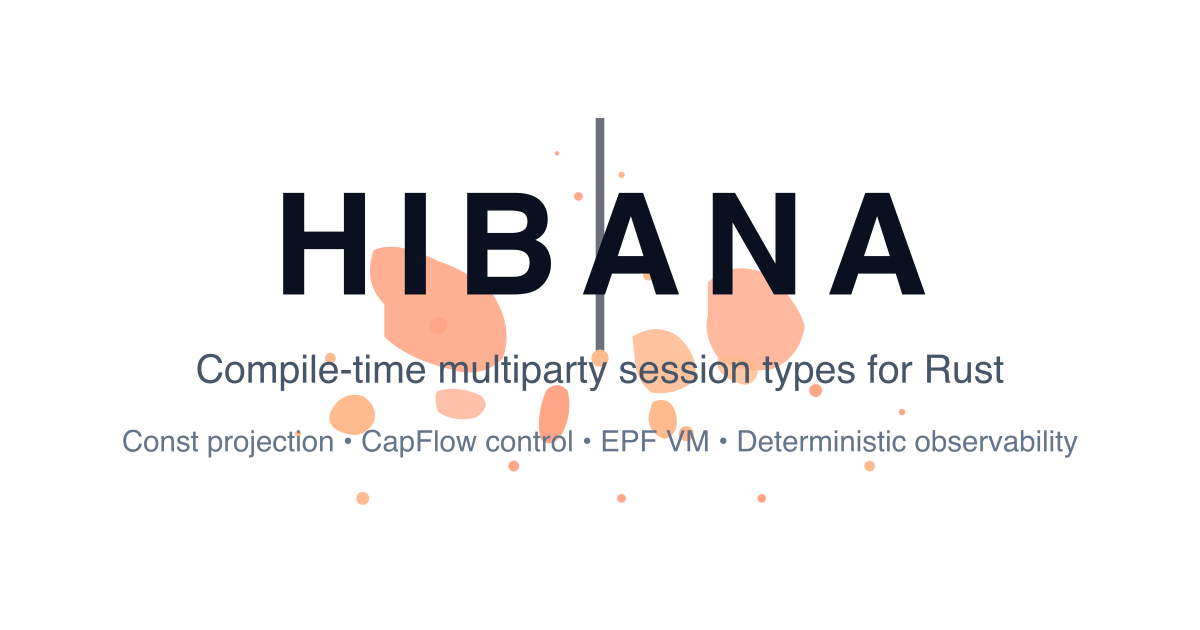
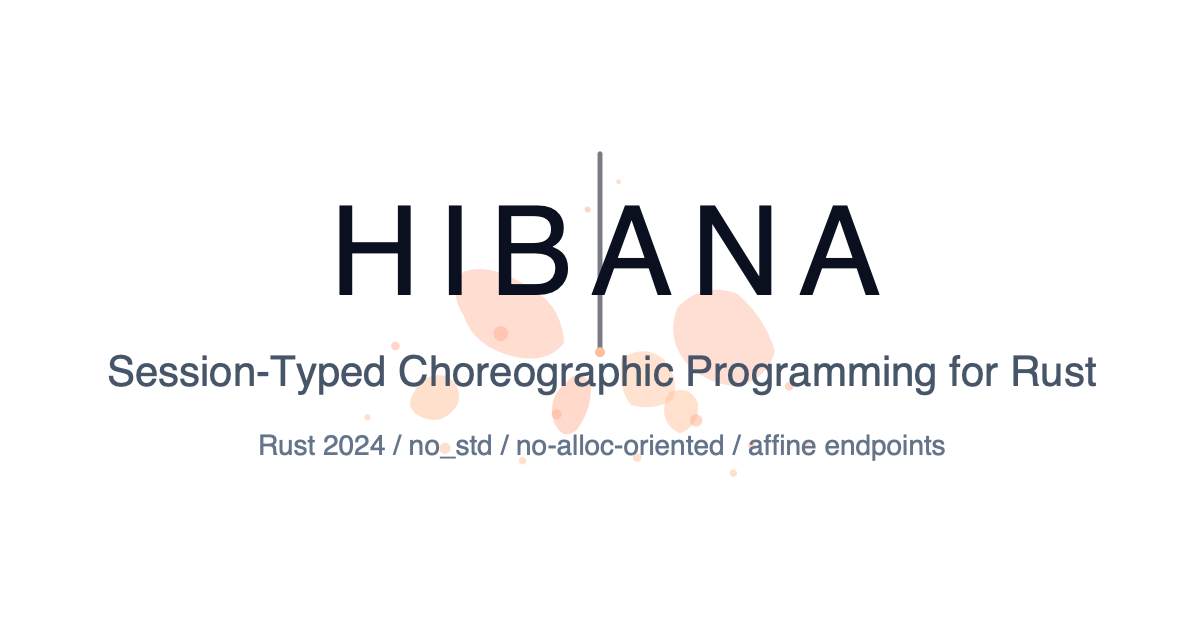
Update Hibana site for 0.9.1

Changed region(s): [[0.0925, 0.181, 0.925, 0.754], [0.2775, 0.7841, 0.3083, 0.8143]]

diff --git a/index.html b/index.html
@@ -3,21 +3,21 @@
 <head>
     <meta charset="UTF-8">
     <meta name="viewport" content="width=device-width, initial-scale=1.0">
-    <title>Hibana — Affine Multiparty Session Types for Rust</title>
-    <meta name="description" content="Const-projected Affine Multiparty Session Types for choreography-first Rust protocols. Published on crates.io as hibana 0.8.0.">
+    <title>Hibana — Session-Typed Choreographic Programming for Rust</title>
+    <meta name="description" content="Session-typed choreographic programming for no_std Rust protocols, inspired by affine MPST. Published on crates.io as hibana 0.9.1.">
     
     <!-- Open Graph / Facebook -->
     <meta property="og:type" content="website">
     <meta property="og:url" content="https://hibanaworks.dev/">
-    <meta property="og:title" content="Hibana — Affine Multiparty Session Types for Rust">
-    <meta property="og:description" content="Rust 2024 • no_std • no-alloc-oriented • affine endpoint progress">
+    <meta property="og:title" content="Hibana — Session-Typed Choreographic Programming for Rust">
+    <meta property="og:description" content="Rust 2024 • no_std • no-alloc-oriented • affine endpoints">
     <meta property="og:image" content="https://hibanaworks.dev/hibana-header.png">
     
     <!-- Twitter -->
     <meta name="twitter:card" content="summary_large_image">
     <meta name="twitter:url" content="https://hibanaworks.dev/">
-    <meta name="twitter:title" content="Hibana — Affine Multiparty Session Types for Rust">
-    <meta name="twitter:description" content="Rust 2024 • no_std • no-alloc-oriented • affine endpoint progress">
+    <meta name="twitter:title" content="Hibana — Session-Typed Choreographic Programming for Rust">
+    <meta name="twitter:description" content="Rust 2024 • no_std • no-alloc-oriented • affine endpoints">
     <meta name="twitter:image" content="https://hibanaworks.dev/hibana-header.png">
     
     <link rel="stylesheet" href="style.css">
@@ -29,16 +29,16 @@
                 <img src="hibana.svg" alt="HIBANA Mark" class="logo-mark">
                 <div class="desktop-text">
                     <h1 class="desktop-title">HIBANA</h1>
-                    <p class="desktop-subtitle">Affine Multiparty Session Types for Rust</p>
-                    <p class="desktop-features">Rust 2024 • no_std • no-alloc-oriented • affine endpoint progress</p>
+                    <p class="desktop-subtitle">Session-Typed Choreographic Programming for Rust</p>
+                    <p class="desktop-features">Rust 2024 • no_std • no-alloc-oriented • affine endpoints</p>
                 </div>
             </div>
             <div class="mobile-header">
                 <img src="hibana.svg" alt="HIBANA" class="logo logo-icon">
                 <div class="mobile-text">
                     <h1 class="mobile-title">HIBANA</h1>
-                    <p class="mobile-subtitle">Affine Multiparty Session Types for Rust</p>
-                    <p class="mobile-features">Rust 2024 • no_std • no-alloc-oriented • affine endpoint progress</p>
+                    <p class="mobile-subtitle">Session-Typed Choreographic Programming for Rust</p>
+                    <p class="mobile-features">Rust 2024 • no_std • no-alloc-oriented • affine endpoints</p>
                 </div>
             </div>
         </div>
@@ -48,17 +48,17 @@
         <section class="intro">
             <div class="container">
                 <p class="lead">
-                    Choreography-first endpoint progress for Rust.
+                    Session-typed choreography for Rust protocols.
                 </p>
                 <p>
-                    Hibana lets a protocol crate describe communication once as a global choreography,
-                    project each participant into a compact resident descriptor, attach transport, storage,
-                    and resolver policy through <code>hibana::integration</code>, and hand application
-                    code a small affine <code>Endpoint</code>. Applications stay on
-                    <code>hibana::g</code> and <code>Endpoint</code>; protocol crates use
-                    <code>hibana::integration</code> to project, attach, and bind.
+                    Hibana is a Rust 2024, <code>#![no_std]</code>, no-alloc-oriented
+                    runtime for session-typed choreographic programming, inspired by affine
+                    multiparty session types. A protocol crate describes communication once
+                    as a global choreography, projects each participant into a compact local
+                    program, attaches transport and storage through <code>hibana::runtime</code>,
+                    and hands application code a small affine <code>Endpoint</code>.
                 </p>
-                <p class="repo-note">Status: <code>hibana 0.8.0</code> is published on crates.io. The core crate is ready for early protocol integration.</p>
+                <p class="repo-note">Status: <code>hibana 0.9.1</code> is published on crates.io.</p>
             </div>
         </section>
 
@@ -68,13 +68,13 @@
 
 <span class="hl-comment">// 1. Write one global choreography.</span>
 <span class="hl-keyword">let</span> <span class="hl-variable">app</span> <span class="hl-operator">=</span> <span class="hl-fn">g::seq</span>(
-    <span class="hl-fn">g::send</span><span class="hl-operator">::&lt;</span><span class="hl-number">0</span><span class="hl-operator">,</span> <span class="hl-number">1</span><span class="hl-operator">,</span> <span class="hl-type">g::Msg</span><span class="hl-operator">&lt;</span><span class="hl-number">1</span><span class="hl-operator">,</span> <span class="hl-type">u32</span><span class="hl-operator">&gt;,</span> <span class="hl-number">0</span><span class="hl-operator">&gt;(),</span>
-    <span class="hl-fn">g::send</span><span class="hl-operator">::&lt;</span><span class="hl-number">1</span><span class="hl-operator">,</span> <span class="hl-number">0</span><span class="hl-operator">,</span> <span class="hl-type">g::Msg</span><span class="hl-operator">&lt;</span><span class="hl-number">2</span><span class="hl-operator">,</span> <span class="hl-type">u32</span><span class="hl-operator">&gt;,</span> <span class="hl-number">0</span><span class="hl-operator">&gt;(),</span>
+    <span class="hl-fn">g::send</span><span class="hl-operator">::&lt;</span><span class="hl-number">0</span><span class="hl-operator">,</span> <span class="hl-number">1</span><span class="hl-operator">,</span> <span class="hl-type">g::Msg</span><span class="hl-operator">&lt;</span><span class="hl-number">1</span><span class="hl-operator">,</span> <span class="hl-type">u32</span><span class="hl-operator">&gt;&gt;(),</span>
+    <span class="hl-fn">g::send</span><span class="hl-operator">::&lt;</span><span class="hl-number">1</span><span class="hl-operator">,</span> <span class="hl-number">0</span><span class="hl-operator">,</span> <span class="hl-type">g::Msg</span><span class="hl-operator">&lt;</span><span class="hl-number">2</span><span class="hl-operator">,</span> <span class="hl-type">u32</span><span class="hl-operator">&gt;&gt;(),</span>
 );
 
 <span class="hl-comment">// 2. Protocol crates project, attach transport, and return Endpoint.</span>
 <span class="hl-comment">// 3. Applications drive only the localside path.</span>
-<span class="hl-variable">endpoint</span><span class="hl-operator">.</span><span class="hl-method">flow</span><span class="hl-operator">::&lt;</span><span class="hl-type">g::Msg</span><span class="hl-operator">&lt;</span><span class="hl-number">1</span><span class="hl-operator">,</span> <span class="hl-type">u32</span><span class="hl-operator">&gt;&gt;()?.</span><span class="hl-method">send</span><span class="hl-operator">(&amp;</span><span class="hl-number">7</span><span class="hl-operator">).</span><span class="hl-keyword">await</span><span class="hl-operator">?;</span>
+<span class="hl-variable">endpoint</span><span class="hl-operator">.</span><span class="hl-method">send</span><span class="hl-operator">::&lt;</span><span class="hl-type">g::Msg</span><span class="hl-operator">&lt;</span><span class="hl-number">1</span><span class="hl-operator">,</span> <span class="hl-type">u32</span><span class="hl-operator">&gt;&gt;(&amp;</span><span class="hl-number">7</span><span class="hl-operator">).</span><span class="hl-keyword">await</span><span class="hl-operator">?;</span>
 <span class="hl-keyword">let</span> <span class="hl-variable">reply</span> <span class="hl-operator">=</span> <span class="hl-variable">endpoint</span><span class="hl-operator">.</span><span class="hl-method">recv</span><span class="hl-operator">::&lt;</span><span class="hl-type">g::Msg</span><span class="hl-operator">&lt;</span><span class="hl-number">2</span><span class="hl-operator">,</span> <span class="hl-type">u32</span><span class="hl-operator">&gt;&gt;().</span><span class="hl-keyword">await</span><span class="hl-operator">?;</span></code></pre>
             </div>
         </section>
@@ -87,15 +87,15 @@
                 </div>
                 <div class="feature">
                     <h3>Affine Endpoint</h3>
-                    <p><code>flow().send()</code>, <code>recv()</code>, <code>offer()</code>, and <code>RouteBranch::decode()</code> advance only the projected continuation.</p>
+                    <p><code>send()</code>, <code>recv()</code>, <code>offer()</code>, and route branch operations advance only the projected continuation.</p>
                 </div>
                 <div class="feature">
                     <h3>Two Public Surfaces</h3>
-                    <p>Application code uses <code>hibana::g</code> and <code>Endpoint</code>. Protocol crates use <code>hibana::integration</code>.</p>
+                    <p>Application code uses <code>hibana::g</code> and <code>Endpoint</code>. Protocol crates use <code>hibana::runtime</code>.</p>
                 </div>
                 <div class="feature">
                     <h3><code>no_std</code> Core</h3>
-                    <p><span class="badge">Rust 2024</span> · <span class="badge"><code>#![no_std]</code></span> · <span class="badge"><code>no_alloc-oriented</code></span> — caller-provided storage, resident descriptors, and attach sizing derived from projection.</p>
+                    <p><span class="badge">Rust 2024</span> · <span class="badge"><code>#![no_std]</code></span> · <span class="badge"><code>no_alloc-oriented</code></span> — caller-provided storage and runtime resources derived from projection.</p>
                 </div>
                 <div class="feature">
                     <h3>No Shared Protocol State</h3>
@@ -115,14 +115,14 @@
                 <div class="crate">
                     <h3>hibana <span class="badge">Core</span></h3>
                     <div class="crate-content">
-                        <p>Const-projected affine MPST runtime, resident descriptor attach, endpoint progress, resolver policy, and protocol-neutral integration surface.</p>
+                        <p>Session-typed choreography runtime, typed projection, affine endpoint progress, transport abstraction, resolver sites, and fixed-cost tap evidence.</p>
                         <p class="repo-note"><a href="https://crates.io/crates/hibana">crates.io/crates/hibana</a> · <a href="https://github.com/hibanaworks/hibana">github.com/hibanaworks/hibana</a></p>
                     </div>
                 </div>
                 <div class="crate">
                     <h3>hibana-pico <span class="badge">Proof Target</span></h3>
                     <div class="crate-content">
-                        <p>WASI P1 projection, attach, and run proof target for choreography-owned endpoint/carrier progress on embedded hardware.</p>
+                        <p>Cargo-native projection, attach, and run integration layer for raw Hibana choreography, including WASI P1 import completion through Endpoint/carrier progress.</p>
                         <p class="repo-note"><a href="https://github.com/hibanaworks/hibana-pico">github.com/hibanaworks/hibana-pico</a></p>
                     </div>
                 </div>
@@ -148,7 +148,7 @@
                 <h2>Get Started</h2>
                 <pre><code>cargo add hibana</code></pre>
                 <pre><code>[dependencies]
-hibana = "0.8.0"</code></pre>
+hibana = "0.9.1"</code></pre>
                 <p>
                     <a href="https://crates.io/crates/hibana">crates.io</a> ·
                     <a href="https://docs.rs/hibana">docs.rs</a> ·